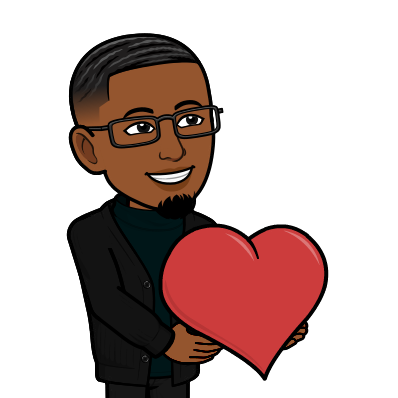
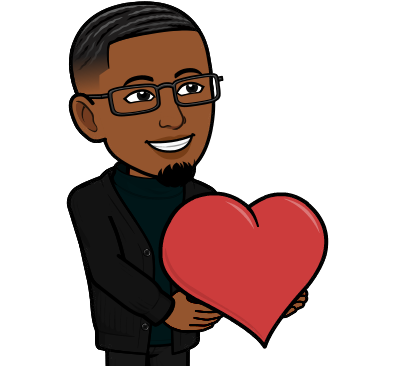
Changinf img default

diff --git a/styles.css b/styles.css
@@ -71,23 +71,11 @@ body, html {
   background-size: 100%;
 }
 
-@keyframes appearAnimation {
-  from {
-    opacity: 0;
-    transform: translateY(50px);
-  }
-  to {
-    opacity: 1;
-    transform: translateY(0);
-  }
-}
-
 /* Texto predeterminado */
 #textDefault {
   color: #000000;
   margin-top: 5%;
   font-size: 30px;
-  padding: 5px 30px;
   font-family: monospace;
   border-radius: 10rem;
   text-shadow: 2px 2px 1px #ffffff;
@@ -138,6 +126,28 @@ body, html {
   text-shadow: 1px 1px 1px #ffccdf;
 }
 
+/* Imágenes predeterminada y de confirmación */
+#imgYes{
+  width: 250px;
+  border-radius: 30%;
+}
+
+#imgDefault {
+  width: 310px;
+  animation: pulse 1.5s infinite;
+}
+
+@keyframes appearAnimation {
+  from {
+    opacity: 0;
+    transform: translateY(50px);
+  }
+  to {
+    opacity: 1;
+    transform: translateY(0);
+  }
+}
+
 /* Animación de pulso con color */
 @keyframes pulseWithColor {
   0% {
@@ -154,17 +164,6 @@ body, html {
       transform: scale(.99);
       box-shadow: 0 0 0 0 rgb(231, 97, 171);
   }
-}
-
-/* Imágenes predeterminada y de confirmación */
-#imgYes,
-#imgDefault {
-  width: 250px;
-  border-radius: 30%;
-}
-
-#imgDefault {
-  animation: pulse 1.5s infinite;
 }
 
 /* Animación de destello de color */

diff --git a/index.html b/index.html
@@ -21,7 +21,9 @@
             <article class="card" id="card" style="display: none;">
                 <h2 id="textDefault">¿PUEDO SER TU NOVIO?</h2>
                 <h2 id="textYes" style="display: none;">¡Dijo Si!</h2>
-                <img src="https://www.imagenspng.com.br/wp-content/uploads/2022/04/flork-103-png.png" id="imgDefault"><br />
+                <!-- <img src="https://www.imagenspng.com.br/wp-content/uploads/2022/04/flork-103-png.png" id="imgDefault"> -->
+                <img src="img/default.png" id="imgDefault">
+                <br/>
                 <img src="https://media1.tenor.com/m/88Ljaw9lelYAAAAC/skeleton-dance.gif" width="40px" height="260px"
                     id="imgYes" style="display: none; margin-left: 35px;">
                 <input type="button" id='yes' class="btnYes" value="SI" />
